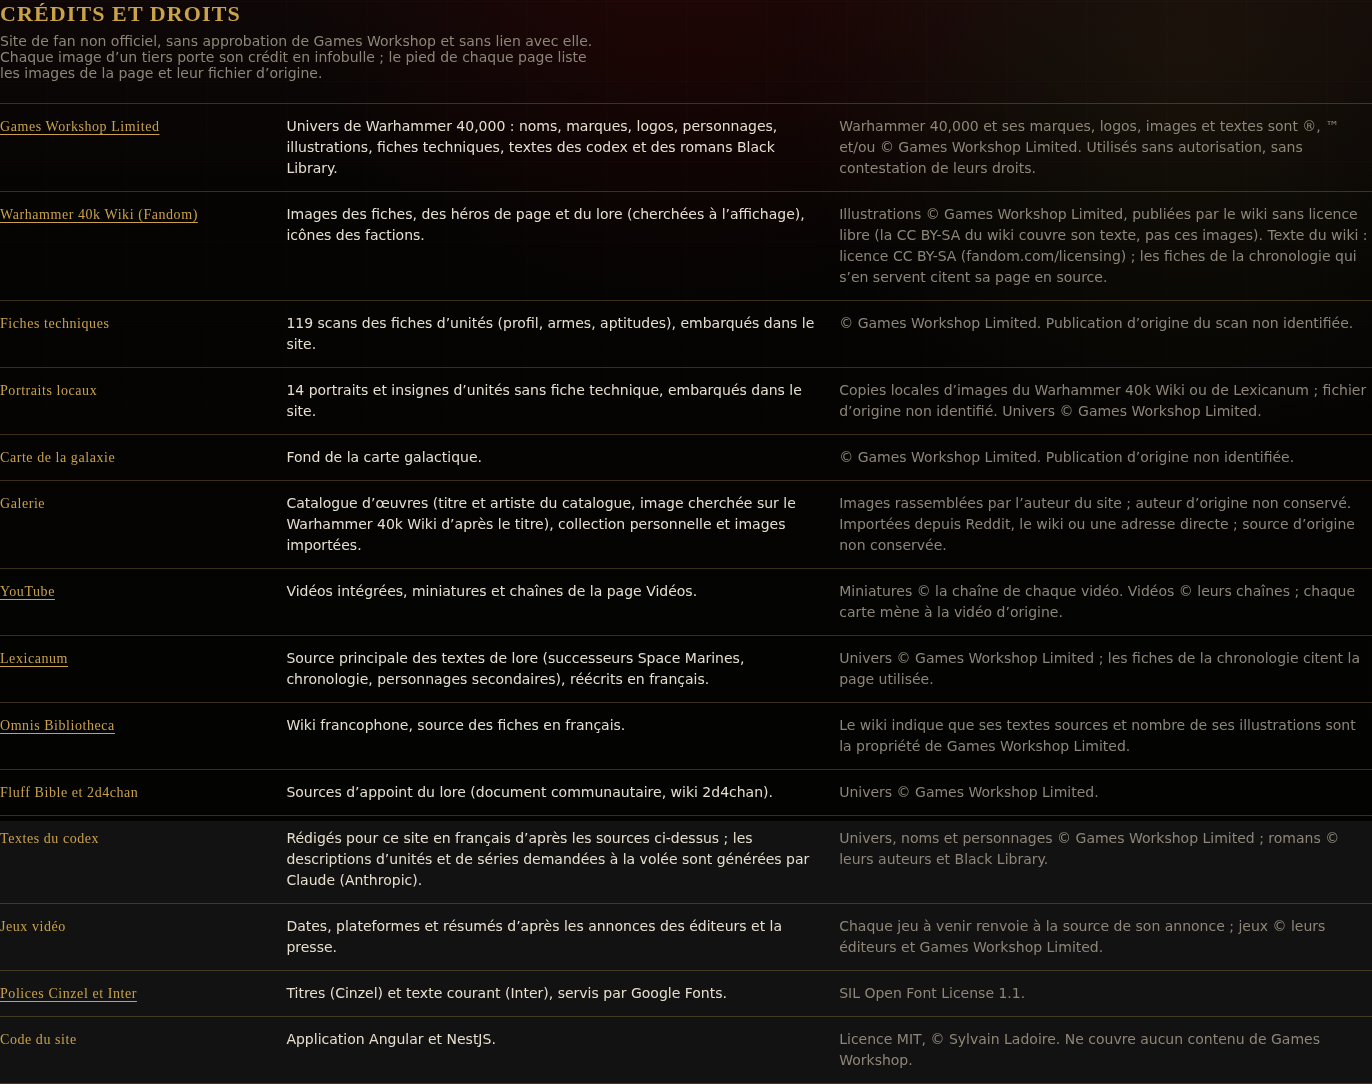
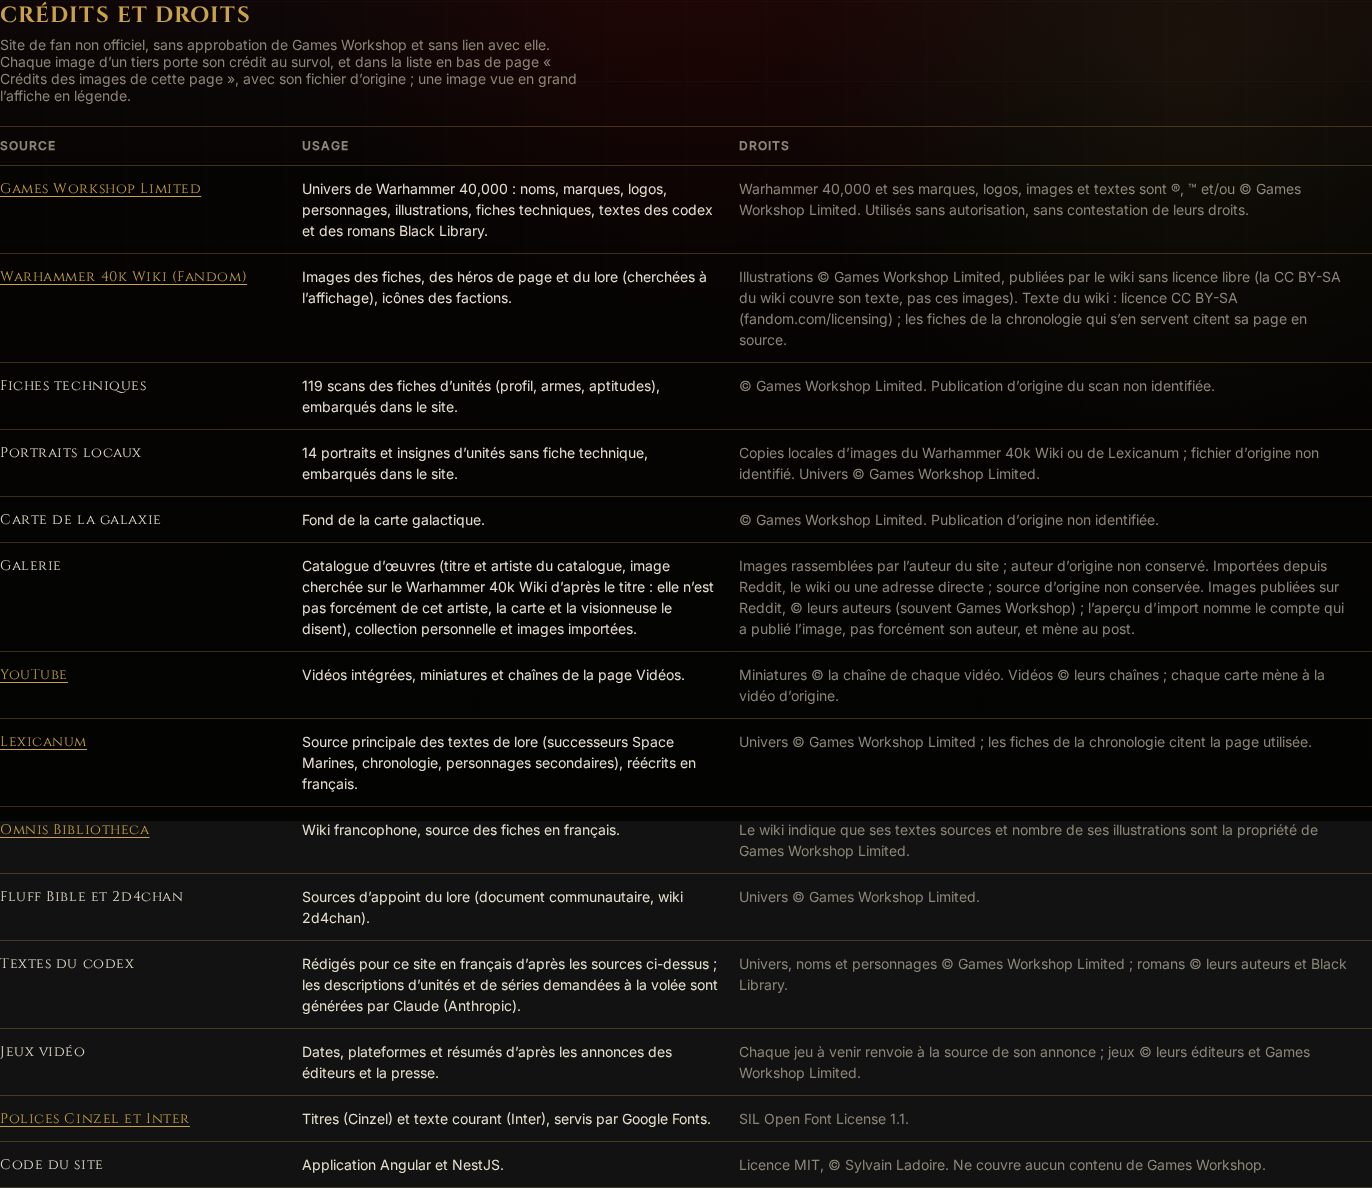
fix(L238): revue r2 — captures de la Nouveauté refaites, visionneuse qui distingue recherche, panne et absence, droits Reddit exacts
- Nouveauté L238 : les trois captures (pied à 1440 et 390 px, À propos) sont refaites sur le build
  actuel, application réelle (backend local, images du vrai wiki, polices web) : liens soulignés,
  « au survol », tableau à en-têtes. Deux captures ajoutées : cartes de la galerie (« Catalogue : » /
  « Image : ») et visionneuse à 390 px avec sa légende. Textes alternatifs et texte alignés
  (28 images, états de la visionneuse). nouveautes-data régénéré ; plan.json inchangé.
- Galerie, visionneuse : « Aucune image trouvée » n'apparaît plus que si le wiki a répondu sans
  image. Recherche en file ou en cours : « Recherche de l'image sur le Warhammer 40k Wiki… »
  (role=status). Panne du wiki : « La recherche de l'image a échoué : le wiki n'a pas répondu. »
  (role=alert) avec un bouton « Réessayer » ; une panne n'est pas relancée en boucle.
- Droits de la source Reddit : l'aperçu nomme le compte qui a publié l'image, pas forcément son
  auteur (© leurs auteurs, souvent Games Workshop).
- Tests : un cas unitaire par état (recherche, panne + Réessayer, absence), le texte des droits,
  et un cas e2e à 390 px qui joue les trois états dans le navigateur.

diff --git a/frontend/src/app/features/gallery/gallery-credits-l238.spec.ts b/frontend/src/app/features/gallery/gallery-credits-l238.spec.ts
@@ -6,7 +6,7 @@ import { fakeWarhammerService } from '../../../testing/fake-warhammer-service';
 import { afterEach, describe, expect, it } from 'vitest';
 import { TestBed, type ComponentFixture } from '@angular/core/testing';
 import { ActivatedRoute, convertToParamMap, provideRouter } from '@angular/router';
-import { of } from 'rxjs';
+import { of, Subject, throwError, type Observable } from 'rxjs';
 import { WarhammerService } from '../../core/services/warhammer.service';
 import { GalleryComponent } from './gallery.component';
 import { creditDeclare, creditImage } from '../../core/credits/credit-image';
@@ -18,7 +18,10 @@ const ARTWORKS = [
 ];
 const POST = { id: 'p', title: 'Mon Ultra', imageUrl: 'https://i.redd.it/abc.jpg', permalink: 'https://reddit.com/r/Warhammer40k/comments/p/x/', author: 'peintre', upvotes: 3, thumbnail: null, postedAt: 0 };
 
-async function render(): Promise<ComponentFixture<GalleryComponent>> {
+type Wiki = { imageUrl: string | null; pageTitle: null; pageUrl: null };
+const wikiParDefaut = (q: string): Observable<Wiki> => of({ imageUrl: q === 'Ultramarines' ? WIKI : null, pageTitle: null, pageUrl: null });
+
+async function render(getWikiImage: (q: string) => Observable<Wiki> = wikiParDefaut): Promise<ComponentFixture<GalleryComponent>> {
   polyfillDialog();
   await setupTestBed([GalleryComponent], [
     provideRouter([]),
@@ -28,7 +31,7 @@ async function render(): Promise<ComponentFixture<GalleryComponent>> {
         artworks$: of(ARTWORKS),
         images$: of(['perso.jpg', 'sans.jpg']),
         getImageMeta: () => of({ 'perso.jpg': { categories: ['Imperium'], artist: 'Moi-même' } }),
-        getWikiImage: (q: string) => of({ imageUrl: q === 'Ultramarines' ? WIKI : null, pageTitle: null, pageUrl: null }),
+        getWikiImage,
         searchReddit: () => of([POST]),
         imageUrl: (f: string) => `/api/images/file/${f}`,
         getSuggestedCategories: () => of({ factions: [], subfactions: [], primarchs: [], characters: [], custom: [] }),
@@ -94,8 +97,54 @@ describe('galerie — crédit réel de l’image affichée (L238 r1)', () => {
   it('visionneuse (catalogue, aucune image) : « Aucune image trouvée », aucun crédit inventé', async () => {
     const f = await render();
     const d = ouvrir(f, 'Nécron');
-    expect(d.querySelector('[data-testid="viewer-ecart"]')!.textContent).toContain('Aucune image trouvée pour cette œuvre.');
+    const ecart = d.querySelector<HTMLElement>('[data-testid="viewer-ecart"]')!;
+    expect(ecart.textContent).toContain('Aucune image trouvée pour cette œuvre.');
+    expect(ecart.dataset['etat']).toBe('absente');
     expect(d.querySelector('[data-testid="credit-legende"]')).toBeNull();
+  });
+
+  it('r2 — visionneuse pendant la recherche : « Recherche de l’image… », jamais « Aucune image trouvée » ; puis l’image arrive', async () => {
+    const enAttente = new Subject<Wiki>(); // seule la recherche de cette œuvre reste sans réponse
+    const f = await render((q) => (q === 'Ultramarines' ? enAttente : wikiParDefaut(q)));
+    const d = ouvrir(f, 'Ultramarines');
+    let ecart = d.querySelector<HTMLElement>('[data-testid="viewer-ecart"]')!;
+    expect(ecart.dataset['etat']).toBe('chargement');
+    expect(ecart.getAttribute('role')).toBe('status');
+    expect(ecart.textContent!.trim()).toBe('Recherche de l’image sur le Warhammer 40k Wiki…');
+    expect(d.textContent).not.toContain('Aucune image trouvée');
+    expect(d.querySelector('[data-testid="credit-legende"]')).toBeNull();
+
+    enAttente.next({ imageUrl: WIKI, pageTitle: null, pageUrl: null });
+    f.detectChanges();
+    ecart = d.querySelector<HTMLElement>('[data-testid="viewer-ecart"]')!;
+    expect(ecart.dataset['etat']).toBeUndefined();
+    expect(ecart.textContent).toContain('rien n’indique qu’elle soit de John Stone');
+    expect(d.querySelector('[data-testid="credit-legende"]')!.textContent).toContain('Ultramarines Art.jpg');
+  });
+
+  it('r2 — visionneuse sur une panne du wiki (502) : l’échec est dit (alerte), pas « Aucune image trouvée » ; « Réessayer » relance', async () => {
+    let panne = true;
+    const appels: string[] = [];
+    const f = await render((q) => {
+      appels.push(q);
+      return panne ? throwError(() => new Error('502')) : wikiParDefaut(q);
+    });
+    const d = ouvrir(f, 'Ultramarines');
+    const ecart = d.querySelector<HTMLElement>('[data-testid="viewer-ecart"]')!;
+    expect(ecart.dataset['etat']).toBe('erreur');
+    expect(ecart.getAttribute('role')).toBe('alert');
+    expect(ecart.textContent).toContain('La recherche de l’image a échoué : le wiki n’a pas répondu.');
+    expect(d.textContent).not.toContain('Aucune image trouvée');
+    expect(d.querySelector('[data-testid="credit-legende"]')).toBeNull();
+    // Une panne n'est pas relancée en boucle : une seule recherche par œuvre tant qu'on ne le demande pas.
+    expect(appels.filter((q) => q === 'Ultramarines')).toHaveLength(1);
+
+    panne = false;
+    d.querySelector<HTMLButtonElement>('[data-testid="viewer-reessayer"]')!.click();
+    f.detectChanges();
+    expect(appels.filter((q) => q === 'Ultramarines')).toHaveLength(2);
+    expect(d.querySelector<HTMLElement>('[data-testid="viewer-ecart"]')!.textContent).toContain('rien n’indique qu’elle soit de John Stone');
+    expect(d.querySelector('[data-testid="viewer-reessayer"]')).toBeNull();
   });
 
   it('visionneuse (collection perso) : la légende nomme l’artiste indiqué, sinon « auteur d’origine non conservé »', async () => {

diff --git a/frontend/src/app/features/gallery/gallery.component.ts b/frontend/src/app/features/gallery/gallery.component.ts
@@ -1,4 +1,4 @@
-import { afterNextRender, ChangeDetectorRef, Component, DestroyRef, ElementRef, inject, signal, computed, effect, HostListener } from '@angular/core';
+import { afterNextRender, ChangeDetectorRef, Component, DestroyRef, ElementRef, inject, signal, computed, effect, untracked, HostListener } from '@angular/core';
 import { toSignal } from '@angular/core/rxjs-interop';
 import { toSafeSignal } from '../../shared/safe-signal';
 import { CommonModule, ViewportScroller } from '@angular/common';
@@ -376,10 +376,23 @@ type SortBy = 'recent' | 'popular' | 'alpha';
             <!-- L238 r1 : crédit réel de l'image affichée ; pour une œuvre du catalogue, l'écart est dit. -->
             <div class="vi-credit" data-testid="viewer-credit">
               @if (!art.isLocal) {
-                @if (viewerImageUrl()) {
-                  <p class="vi-ecart" data-testid="viewer-ecart">Image trouvée sur le Warhammer 40k Wiki d’après le titre de l’œuvre : rien n’indique qu’elle soit de {{ art.artist }}.</p>
-                } @else {
-                  <p class="vi-ecart" data-testid="viewer-ecart">Aucune image trouvée pour cette œuvre.</p>
+                <!-- r2 : chargement, panne du wiki et vraie absence sont trois états distincts (un échec se voit comme un échec). -->
+                @switch (viewerEtatImage()) {
+                  @case ('trouvee') {
+                    <p class="vi-ecart" data-testid="viewer-ecart">Image trouvée sur le Warhammer 40k Wiki d’après le titre de l’œuvre : rien n’indique qu’elle soit de {{ art.artist }}.</p>
+                  }
+                  @case ('chargement') {
+                    <p class="vi-ecart" data-testid="viewer-ecart" data-etat="chargement" role="status">Recherche de l’image sur le Warhammer 40k Wiki…</p>
+                  }
+                  @case ('erreur') {
+                    <p class="vi-ecart vi-ecart-erreur" data-testid="viewer-ecart" data-etat="erreur" role="alert">
+                      La recherche de l’image a échoué : le wiki n’a pas répondu.
+                      <button type="button" class="vi-reessayer" data-testid="viewer-reessayer" (click)="reessayerImage(art)">Réessayer</button>
+                    </p>
+                  }
+                  @default {
+                    <p class="vi-ecart" data-testid="viewer-ecart" data-etat="absente">Aucune image trouvée pour cette œuvre.</p>
+                  }
                 }
               }
               <app-credit-legende [adresse]="viewerImageUrl()" [texte]="art.isLocal ? creditLocal(art) : null" />
@@ -914,6 +927,8 @@ export class GalleryComponent {
   readonly heroBgUrl = signal<string>('linear-gradient(135deg, #1a0a08 0%, #050403 100%)');
   private readonly imgCache = signal<Record<string, string>>({});
   private readonly imgInflight = new Set<string>();
+  /** r2 — issue d'une recherche sans image : le wiki a répondu « rien » (`absente`) ou n'a pas répondu (`erreur`). */
+  private readonly imgIssue = signal<Record<string, 'absente' | 'erreur'>>({});
 
   /** Cap simultaneous wiki-image fetches to ease load on the backend proxy. */
   private static readonly FETCH_QUEUE_LIMIT = 6;
@@ -1134,7 +1149,7 @@ export class GalleryComponent {
       for (const a of list) {
         if (a.isLocal) continue;
         const key = `art:${a.id}`;
-        if (cache[key] || this.imgInflight.has(key)) continue;
+        if (cache[key] || this.imgInflight.has(key) || untracked(this.imgIssue)[key]) continue;
         this.fetchImage(key, a.wikiQuery ?? `${a.title} warhammer 40k`);
       }
     });
@@ -1147,10 +1162,12 @@ export class GalleryComponent {
       this.service.getWikiImage(query).subscribe({
         next: r => {
           if (r.imageUrl) this.imgCache.update(c => ({ ...c, [key]: r.imageUrl! }));
+          else this.imgIssue.update(c => ({ ...c, [key]: 'absente' }));
           this.imgInflight.delete(key);
           this.releaseFetchSlot();
         },
         error: () => {
+          this.imgIssue.update(c => ({ ...c, [key]: 'erreur' }));
           this.imgInflight.delete(key);
           this.releaseFetchSlot();
         },
@@ -1204,6 +1221,23 @@ export class GalleryComponent {
     if (!a) return null;
     if (a.isLocal) return this.service.imageUrl(a.image);
     return this.imgCache()[`art:${a.id}`] ?? null;
+  }
+
+  /**
+   * L238 r2 — où en est l'image d'une œuvre du catalogue dans la visionneuse : `trouvee`, `chargement` (recherche
+   * en file ou en cours), `erreur` (le wiki n'a pas répondu) ou `absente` (le wiki a répondu sans image).
+   */
+  viewerEtatImage(): 'trouvee' | 'chargement' | 'erreur' | 'absente' {
+    if (this.viewerImageUrl()) return 'trouvee';
+    const a = this.selectedArt();
+    return (a && this.imgIssue()[`art:${a.id}`]) || 'chargement';
+  }
+
+  /** L238 r2 — relance la recherche d'une image après une panne du wiki. */
+  reessayerImage(art: Artwork): void {
+    const key = `art:${art.id}`;
+    this.imgIssue.update(c => { const { [key]: _, ...reste } = c; return reste; });
+    this.fetchImage(key, art.wikiQuery ?? `${art.title} warhammer 40k`);
   }
 
   /**

diff --git a/frontend/src/app/layout/credits-page/credits-l238.e2e.spec.ts b/frontend/src/app/layout/credits-page/credits-l238.e2e.spec.ts
@@ -164,6 +164,69 @@ describe.skipIf(!built || !chromium)('crédits et droits (navigateur, dist) — 
     await page.close();
   });
 
+  // r2 — la visionneuse ne dit « Aucune image trouvée » que si le wiki a répondu sans image.
+  it('r2 390 px : visionneuse — recherche en cours, panne du wiki (502) puis « Réessayer », vraie absence : trois messages distincts', async () => {
+    const page = await browser.newPage({ viewport: { width: 390, height: 844 } });
+    await brancher(page);
+    let mode: 'attente' | 'panne' | 'absente' | 'ok' = 'attente';
+    let liberer = (): void => {};
+    await page.route('**/api/wiki-image**', async (r) => {
+      if (mode === 'attente') await new Promise<void>((ok) => { const avant = liberer; liberer = () => { avant(); ok(); }; });
+      if (mode === 'panne') return r.fulfill({ status: 502, body: 'Bad Gateway' });
+      if (mode === 'absente') return r.fulfill({ json: { imageUrl: null, pageTitle: null, pageUrl: null } });
+      return r.fulfill({ json: { imageUrl: WIKI, pageTitle: 'Adeptus Astartes', pageUrl: null } });
+    });
+    const ouvrir = async () => {
+      await page.goto(`${base}/gallery`);
+      const carte = page.locator('.art-card').first();
+      await carte.waitFor();
+      await carte.locator('.art-open').click();
+      const d = page.locator('dialog.modal');
+      await d.waitFor();
+      return d.locator('[data-testid="viewer-ecart"]');
+    };
+
+    // 1. Recherche en cours : jamais une absence affirmée.
+    let ecart = await ouvrir();
+    await expect(ecart.innerText()).resolves.toBe('Recherche de l’image sur le Warhammer 40k Wiki…');
+    expect(await ecart.getAttribute('data-etat')).toBe('chargement');
+    expect(await page.locator('dialog.modal [data-testid="credit-legende"]').count()).toBe(0);
+    if (CAPTURES) await page.screenshot({ path: `${CAPTURES}/l238r2-visionneuse-chargement-390.png` });
+    // … puis l'image arrive.
+    mode = 'ok';
+    liberer();
+    await expect.poll(() => ecart.innerText()).toMatch(/^Image trouvée sur le Warhammer 40k Wiki/);
+
+    // 2. Panne du wiki : l'échec est dit, avec de quoi réessayer.
+    mode = 'panne';
+    ecart = await ouvrir();
+    await expect.poll(() => ecart.getAttribute('data-etat')).toBe('erreur');
+    expect(await ecart.getAttribute('role')).toBe('alert');
+    expect(await ecart.innerText()).toContain('La recherche de l’image a échoué : le wiki n’a pas répondu.');
+    expect(await page.locator('dialog.modal').innerText()).not.toContain('Aucune image trouvée');
+    const bouton = ecart.locator('[data-testid="viewer-reessayer"]');
+    const b = (await bouton.boundingBox())!;
+    expect(b.height).toBeGreaterThanOrEqual(24); // WCAG 2.5.8
+    expect(b.x + b.width).toBeLessThanOrEqual(390);
+    expect(await bouton.evaluate((e) => getComputedStyle(e).textDecorationLine)).toContain('underline');
+    if (CAPTURES) {
+      await page.waitForTimeout(400);
+      await page.screenshot({ path: `${CAPTURES}/l238r2-visionneuse-panne-390.png` });
+    }
+    mode = 'ok';
+    await bouton.click();
+    await expect.poll(() => ecart.innerText()).toMatch(/^Image trouvée sur le Warhammer 40k Wiki/);
+    await expect.poll(() => page.locator('dialog.modal [data-testid="credit-legende"]').count()).toBe(1);
+
+    // 3. Le wiki répond sans image : là seulement, « Aucune image trouvée ».
+    mode = 'absente';
+    ecart = await ouvrir();
+    await expect.poll(() => ecart.getAttribute('data-etat')).toBe('absente');
+    expect(await ecart.innerText()).toBe('Aucune image trouvée pour cette œuvre.');
+    if (CAPTURES) await page.screenshot({ path: `${CAPTURES}/l238r2-visionneuse-absente-390.png` });
+    await page.close();
+  });
+
   for (const [w, h] of [[1440, 900], [390, 844]] as const) {
     it(`r1 ${w} px : galerie — artiste « Catalogue : », source réelle de l’image, visionneuse avec l’écart et le crédit en légende 12 px`, async () => {
       const page = await browser.newPage({ viewport: { width: w, height: h } });

diff --git a/frontend/src/app/core/credits/credit-image.ts b/frontend/src/app/core/credits/credit-image.ts
@@ -42,7 +42,7 @@ export const SOURCES_IMAGES: Record<SourceImage, { nom: string; droits: string }
   perso: { nom: 'Collection personnelle', droits: 'Images rassemblées par l’auteur du site ; auteur d’origine non conservé.' },
   import: { nom: 'Images importées', droits: 'Importées depuis Reddit, le wiki ou une adresse directe ; source d’origine non conservée.' },
   youtube: { nom: 'YouTube', droits: 'Miniatures © la chaîne de chaque vidéo.' },
-  reddit: { nom: 'Reddit', droits: 'Images publiées sur Reddit, © leurs auteurs ; l’aperçu d’import nomme l’auteur et mène au post.' },
+  reddit: { nom: 'Reddit', droits: 'Images publiées sur Reddit, © leurs auteurs (souvent Games Workshop) ; l’aperçu d’import nomme le compte qui a publié l’image, pas forcément son auteur, et mène au post.' },
   carte: { nom: 'Carte de la galaxie', droits: '© Games Workshop Limited. Publication d’origine non identifiée.' },
   externe: { nom: 'Autres sites', droits: 'Image d’un autre site ; source non identifiée.' },
 };

diff --git a/frontend/src/app/core/credits/credit-image.spec.ts b/frontend/src/app/core/credits/credit-image.spec.ts
@@ -68,6 +68,12 @@ describe('adressesImages (L238)', () => {
 });
 
 describe('crédit — r1 (L238)', () => {
+  it('r2 — droits de la source Reddit : l’aperçu nomme le compte qui a publié, pas « l’auteur » de l’image', () => {
+    const d = SOURCES_IMAGES.reddit.droits;
+    expect(d).toContain('nomme le compte qui a publié l’image, pas forcément son auteur');
+    expect(d).not.toContain('nomme l’auteur');
+  });
+
   it('aperçu Reddit (i.redd.it, preview.redd.it) : source Reddit, auteur non lisible dans l’adresse (rien deviné)', () => {
     for (const a of ['https://i.redd.it/abc.jpg', 'https://preview.redd.it/x.png?width=640']) {
       const c = creditImage(a)!;

diff --git a/frontend/src/styles/_gallery-visionneuse.scss b/frontend/src/styles/_gallery-visionneuse.scss
@@ -77,4 +77,10 @@ app-gallery {
   .art-source { margin-top: 4px; color: var(--muted); font-size: 12px; line-height: 1.4; }
   .vi-credit { margin-top: 8px; display: grid; gap: 2px; }
   .vi-ecart { margin: 0; color: #c9beaa; font-size: 12px; line-height: 1.5; }
+  /* r2 — panne du wiki : texte clair, bouton souligné d'au moins 24 px de haut (WCAG 2.5.8). */
+  .vi-ecart-erreur { color: var(--text); }
+  .vi-reessayer {
+    min-height: 24px; margin-left: 6px; padding: 0 4px; border: 0; background: none; cursor: pointer;
+    color: var(--gold); font: inherit; text-decoration: underline;
+  }
 }

diff --git a/docs/nouveautes/2026-11-20-credits-et-droits-games-workshop-et-source-de-chaque-image.md b/docs/nouveautes/2026-11-20-credits-et-droits-games-workshop-et-source-de-chaque-image.md
@@ -4,12 +4,14 @@ date: 2026-11-20
 created: 2026-11-20T12:45+01:00
 lots: [L238]
 captures:
-  - { file: captures/L238-pied-factions-1440.png, alt: "Pied de page de la liste des factions sur grand écran : mention « Site de fan non officiel, sans approbation de Games Workshop », lien « Crédits et droits », puis la liste ouverte « Crédits des images de cette page » : 12 images du Warhammer 40k Wiki, avec le lien vers chaque fichier" }
-  - { file: captures/L238-pied-factions-390.png, alt: "Le même pied de page sur téléphone (390 px) : la mention des droits sur quatre lignes, puis les 12 fichiers du wiki" }
-  - { file: captures/L238-about-credits-1440.png, alt: "Section « Crédits et droits » de la page À propos sur grand écran : une ligne par source (Games Workshop, Warhammer 40k Wiki, fiches techniques, portraits, carte, galerie, YouTube, Lexicanum, Omnis Bibliotheca…), avec son usage et ses droits" }
+  - { file: captures/L238-pied-factions-1440.png, alt: "Pied de page de la liste des factions sur grand écran : mention « Site de fan non officiel, sans approbation de Games Workshop », lien « Crédits et droits », puis la liste ouverte « Crédits des images de cette page » : 28 images du Warhammer 40k Wiki, chaque nom de fichier étant un lien souligné vers sa page" }
+  - { file: captures/L238-pied-factions-390.png, alt: "Le même pied de page sur téléphone (390 px) : la mention des droits sur quatre lignes, puis les 28 fichiers du wiki" }
+  - { file: captures/L238-about-credits-1440.png, alt: "Section « Crédits et droits » de la page À propos sur grand écran : une ligne par source (Games Workshop, Warhammer 40k Wiki, fiches techniques, portraits, carte, galerie, YouTube, Lexicanum, Omnis Bibliotheca…), avec son usage et ses droits, sous les en-têtes Source, Usage et Droits" }
+  - { file: captures/L238-galerie-cartes-1440.png, alt: "Huit cartes de la galerie sur grand écran : sous chaque titre, « Catalogue : » suivi de l’artiste du catalogue, puis « Image : Warhammer 40k Wiki », la source réelle de l’image affichée" }
+  - { file: captures/L238-galerie-visionneuse-390.png, alt: "Visionneuse de la galerie sur téléphone (390 px) : « Artiste au catalogue : John Stone », la phrase « Image trouvée sur le Warhammer 40k Wiki d’après le titre de l’œuvre : rien n’indique qu’elle soit de John Stone », puis le crédit du fichier « Ultramarines Livery.jpg » et le lien « Page du fichier »" }
 ---
 Le pied de chaque page le dit désormais clairement : ce codex est un site de fan non officiel, sans approbation de Games Workshop, et Warhammer 40,000, ses marques, logos, images et textes sont © Games Workshop Limited. Le lien « Crédits et droits » mène au détail.
 
-Chaque image qui vient d’un tiers porte son crédit au survol, et dans la liste en bas de page : illustration du Warhammer 40k Wiki avec le nom de son fichier, fiche technique © Games Workshop, miniature YouTube © sa chaîne. Une image vue en grand (visionneuse de la galerie, agrandissement d’une fiche technique) l’affiche en légende. Dans la galerie, l’artiste d’une œuvre est celui du catalogue : l’image montrée, cherchée sur le wiki d’après le titre, n’est pas forcément la sienne, et la carte comme la visionneuse le disent. Juste en dessous de la mention, « Crédits des images de cette page » s’ouvre sur la liste des images de la page, regroupées par source, avec un lien vers le fichier d’origine de chacune.
+Chaque image qui vient d’un tiers porte son crédit au survol, et dans la liste en bas de page : illustration du Warhammer 40k Wiki avec le nom de son fichier, fiche technique © Games Workshop, miniature YouTube © sa chaîne. Une image vue en grand (visionneuse de la galerie, agrandissement d’une fiche technique) l’affiche en légende. Dans la galerie, l’artiste d’une œuvre est celui du catalogue : l’image montrée, cherchée sur le wiki d’après le titre, n’est pas forcément la sienne, et la carte comme la visionneuse le disent. Tant que la recherche de l’image est en cours, ou si le wiki ne répond pas, la visionneuse l’écrit (avec un bouton « Réessayer ») : « Aucune image trouvée » n’apparaît que lorsque le wiki n’a vraiment rien. Juste en dessous de la mention, « Crédits des images de cette page » s’ouvre sur la liste des images de la page, regroupées par source, avec un lien vers le fichier d’origine de chacune.
 
 La page À propos gagne une section « Crédits et droits » : une ligne par source d’image ou de texte, ce qu’elle apporte au codex et ses droits. Quand l’origine d’une image n’a pas pu être retrouvée, c’est écrit tel quel.
